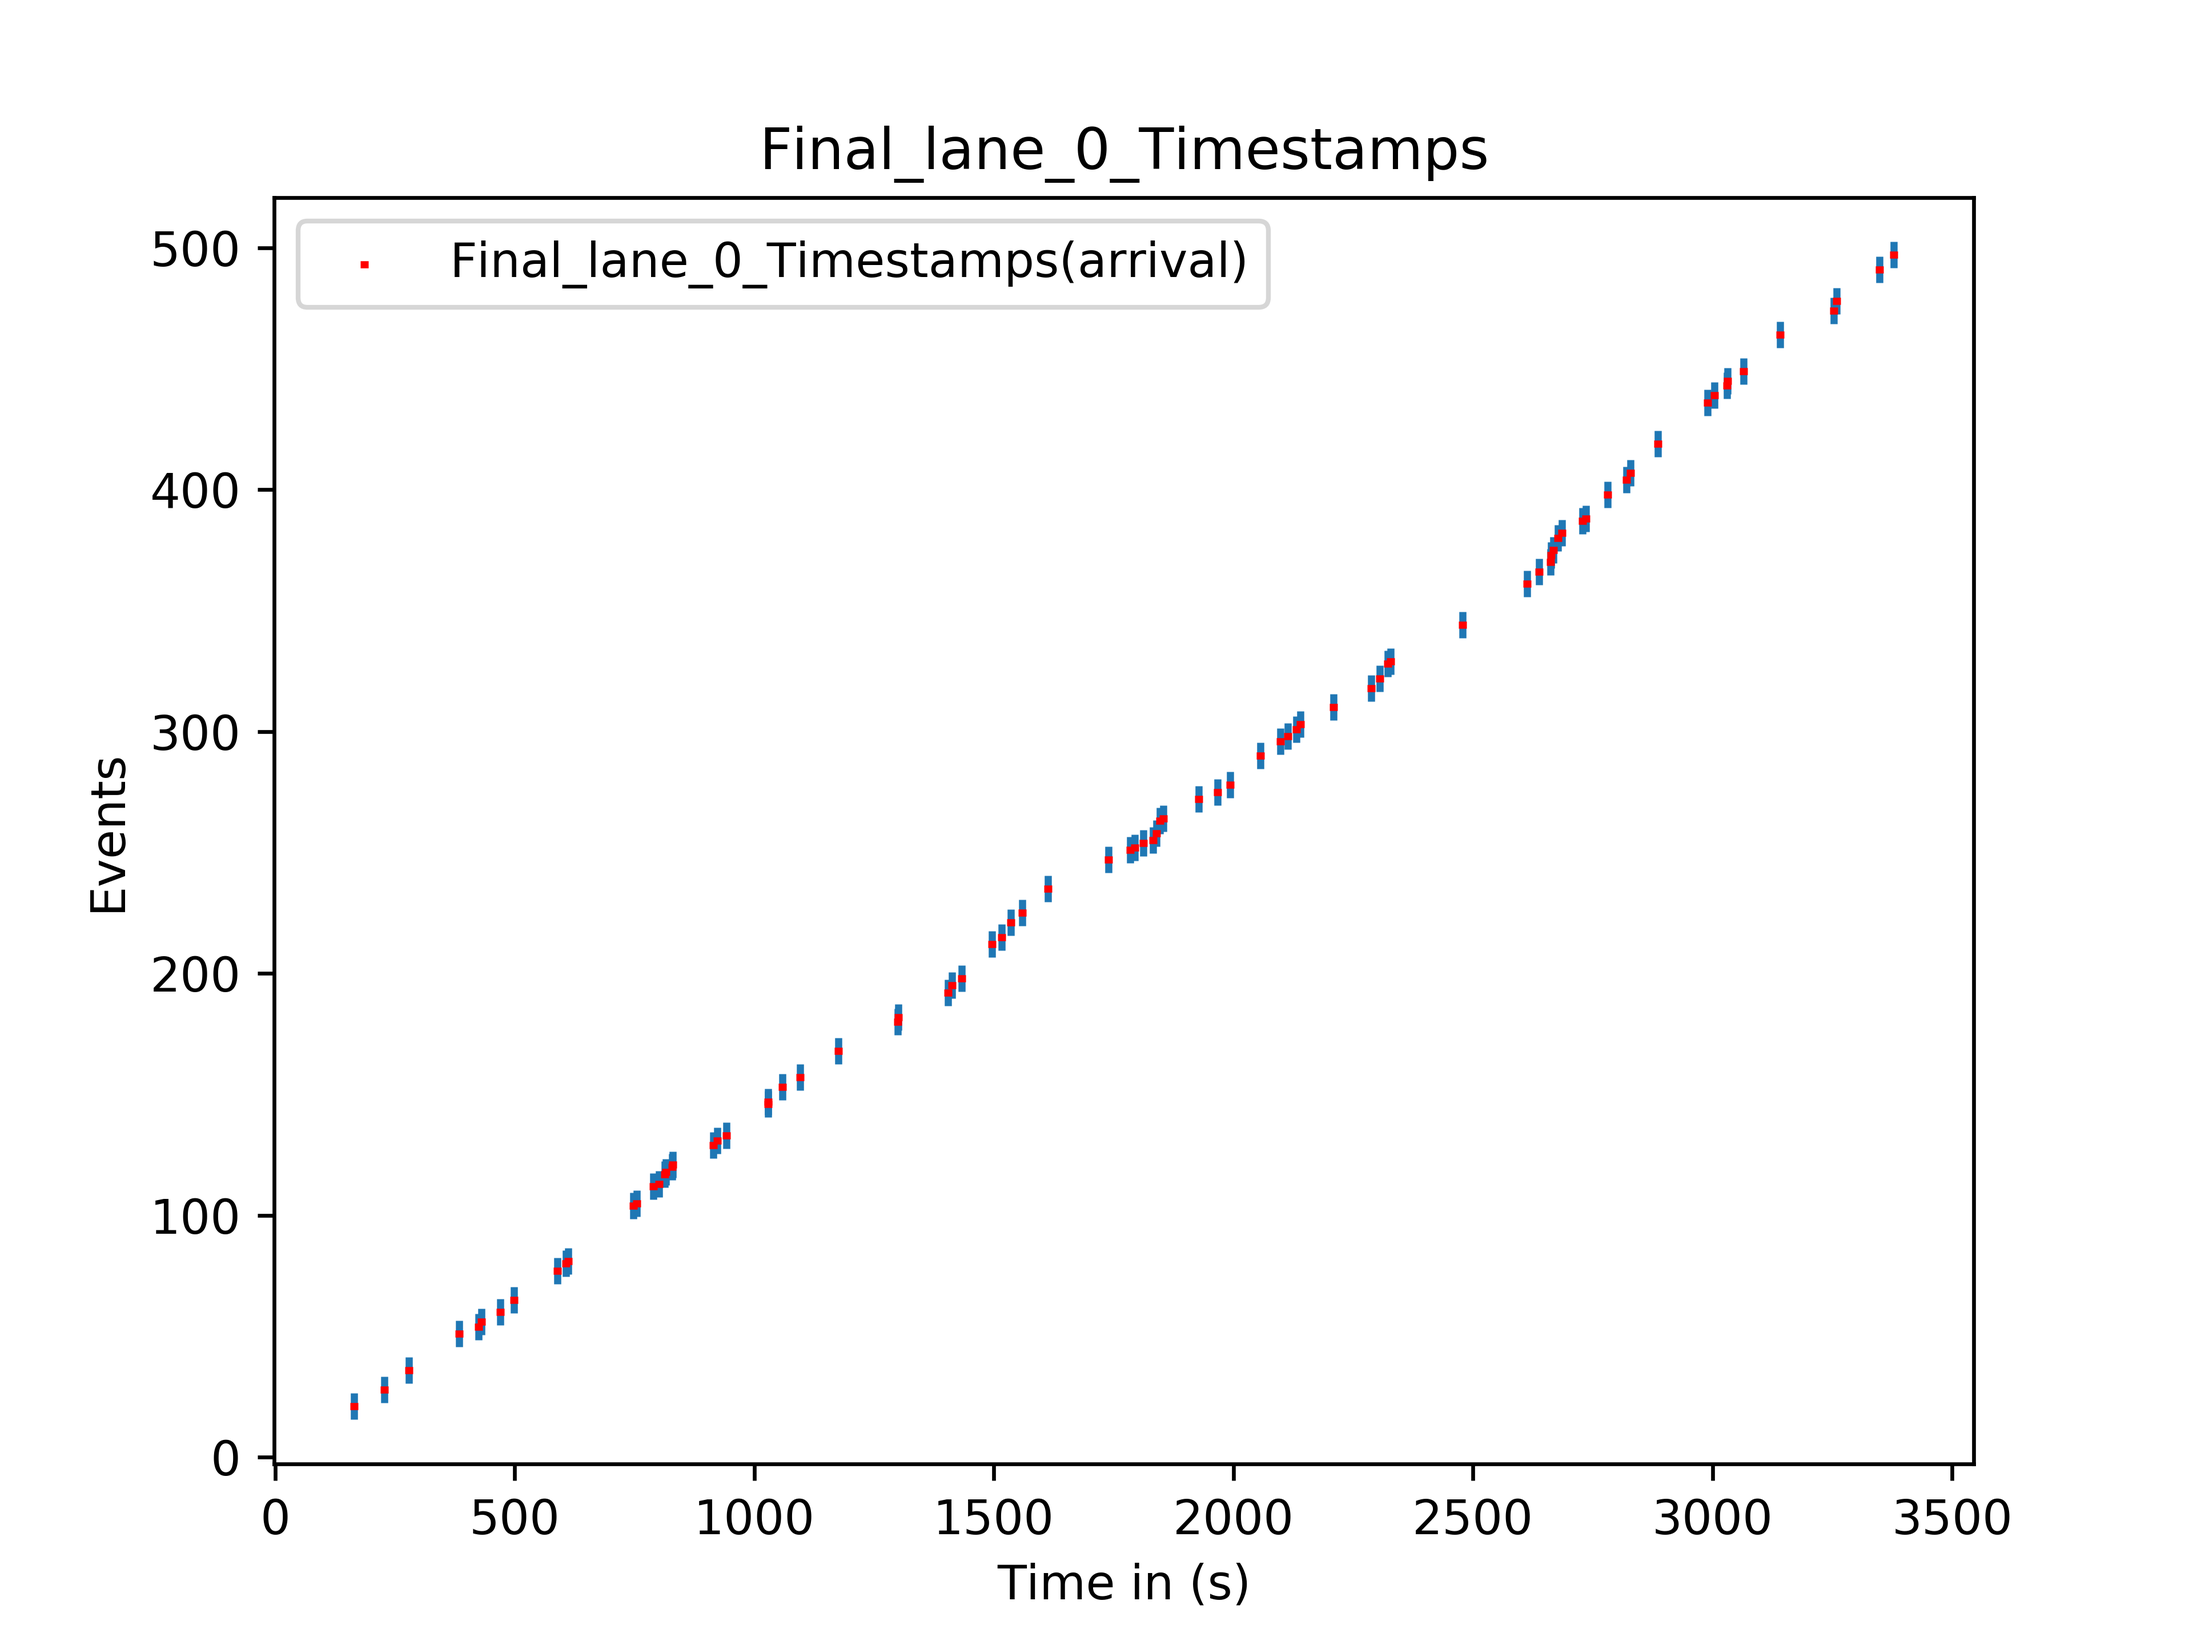
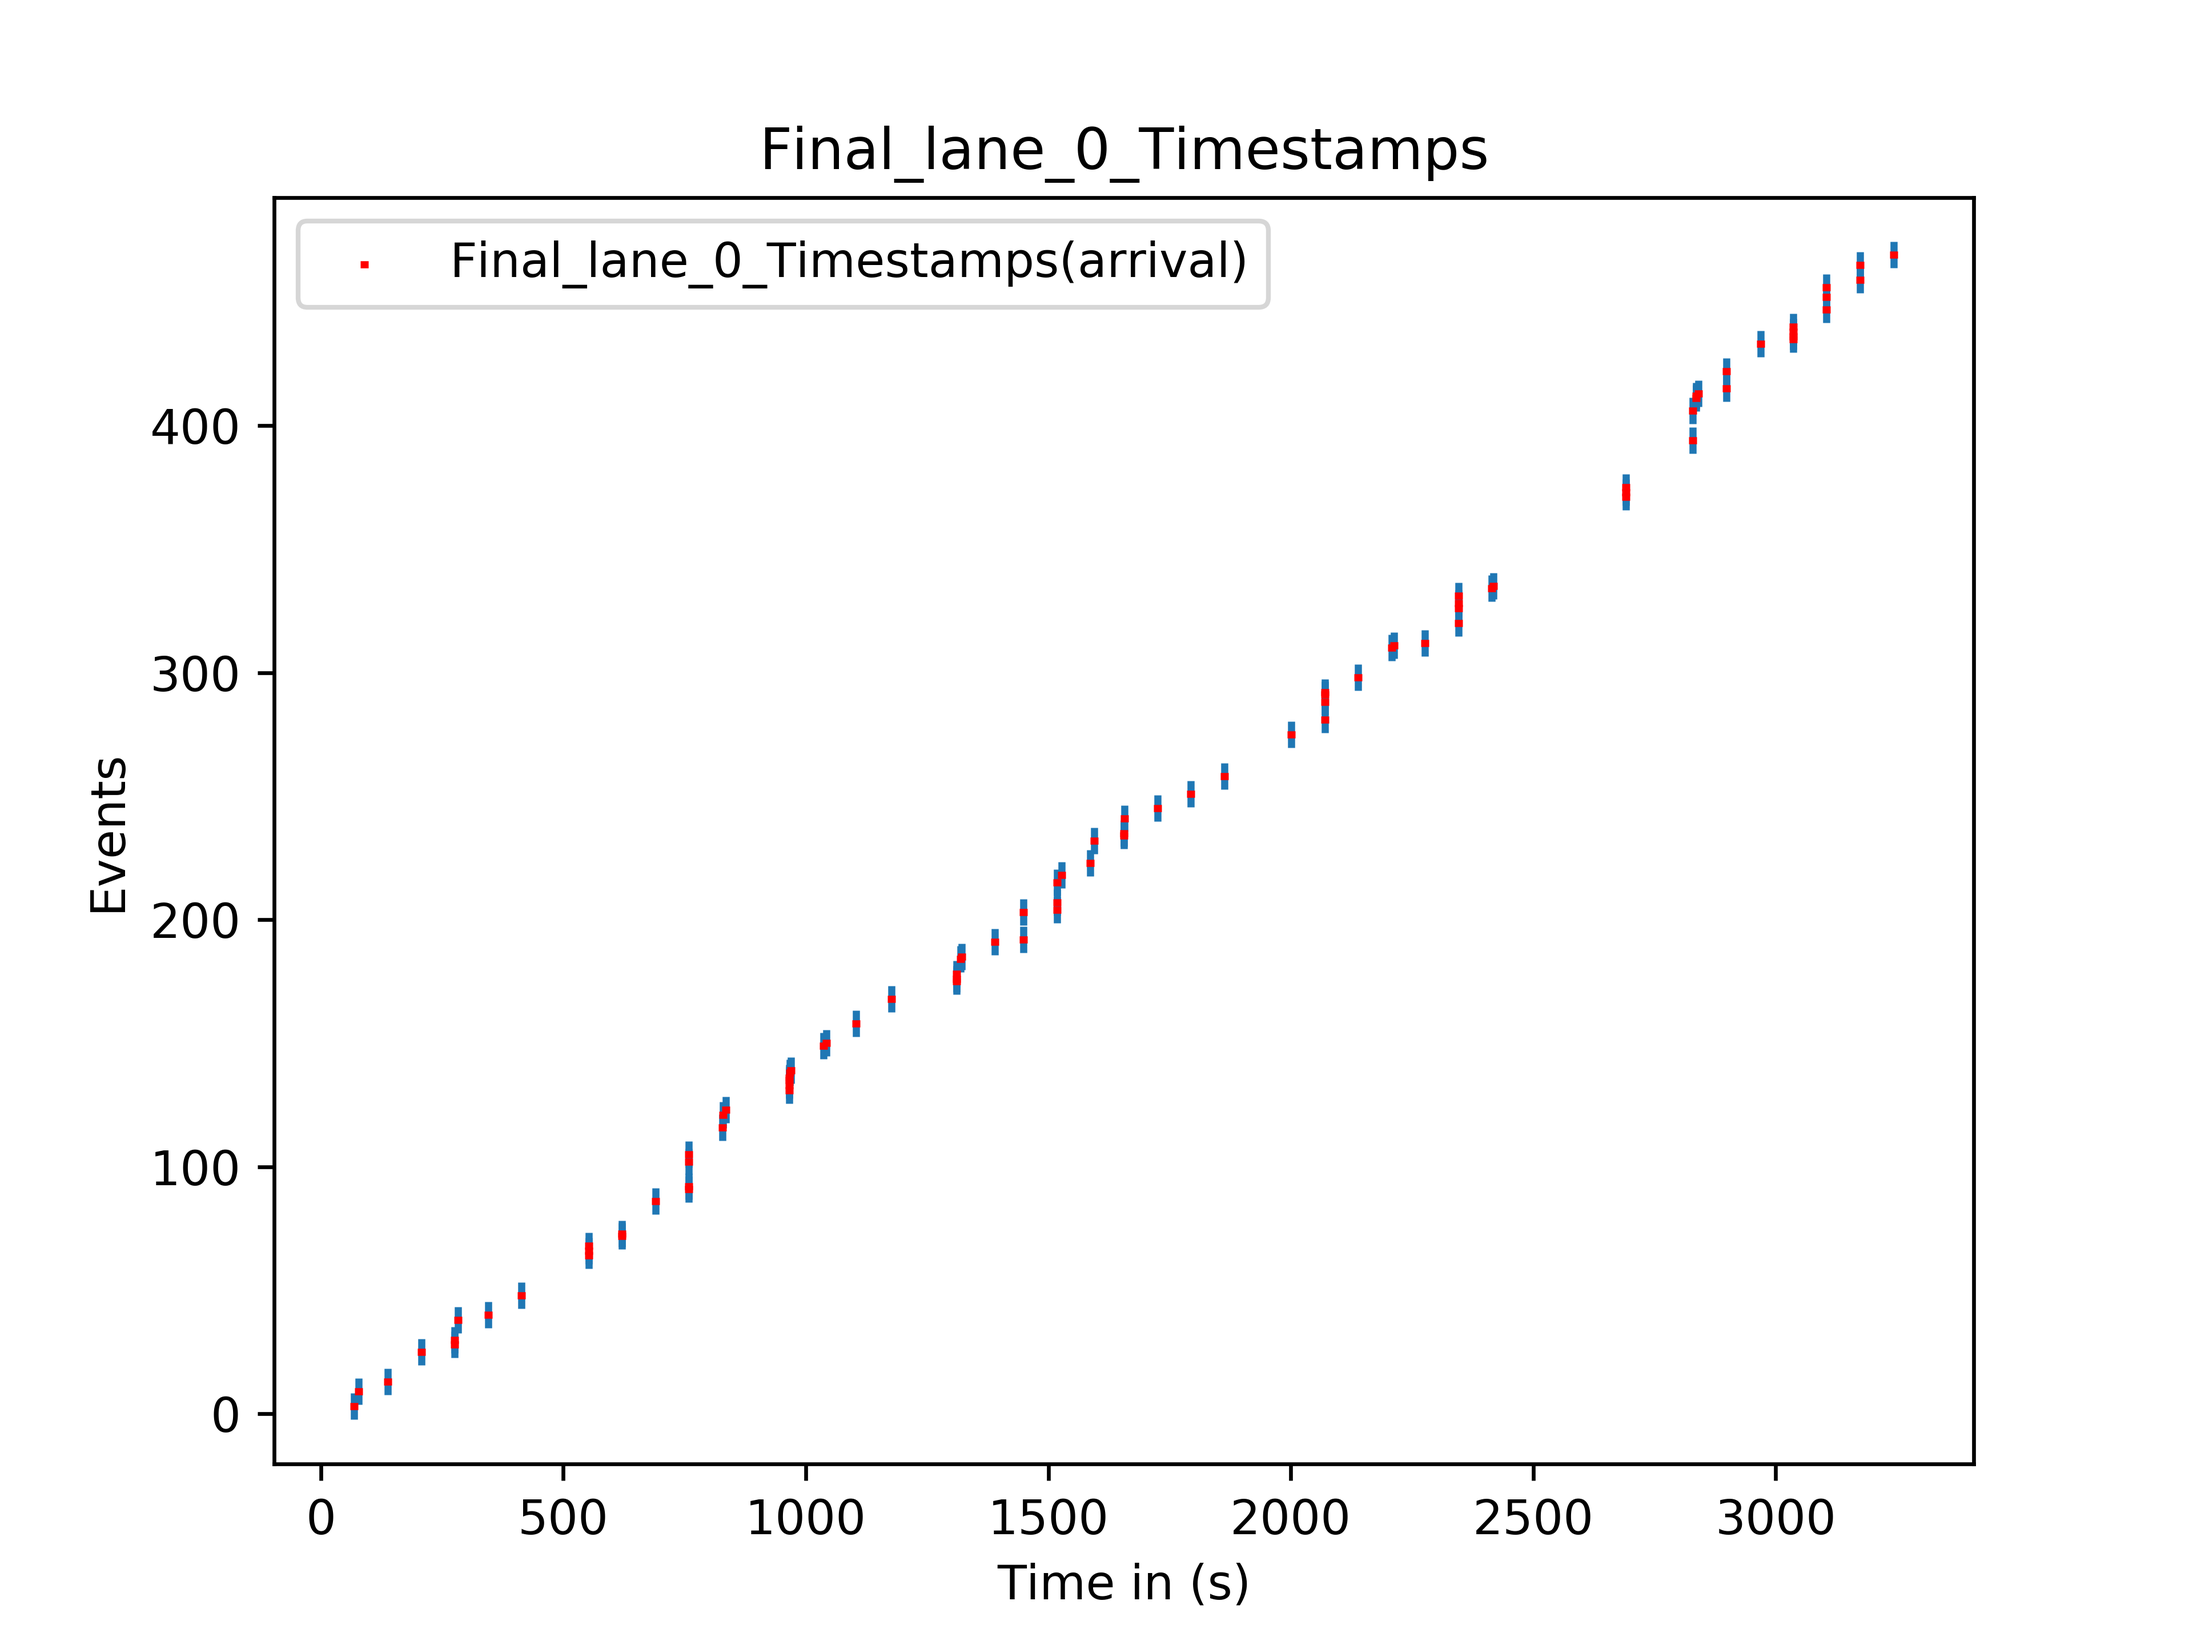
update figures

diff --git a/simulator.py b/simulator.py
@@ -70,16 +70,16 @@ def compare_timestamps_plot(time_stamps_1,id_list_1,time_stamps_2,id_list_2,name
     y = id_list_1
     x2 = time_stamps_2
     y2 = id_list_2
-    print(sum(time_stamps_1))
-    print(sum(time_stamps_2))
+    # print(sum(time_stamps_1))
+    # print(sum(time_stamps_2))
     fig, ax = plt.subplots()
     plt.title(name)
     plt.ylabel('Events')
     plt.xlabel('Time in (s)')
-    ax.scatter(x, y,marker="|",s=30)
-    ax.scatter(x, y,marker="_",color='r', label=name+'(arrival_inital)',s=3)
-    ax.scatter(x, y,marker="|",s=30)
-    ax.scatter(x, y,marker="_",color='g', label=name+'(arrival_final)',s=3)
+
+    ax.scatter(x, y,marker="|",color='r', label=name+'(arrival_inital)')
+
+    ax.scatter(x2, y2,marker="|",color='g', label=name+'(arrival_final)')
     ax.legend()
     plt.savefig(res_dir+name+'.png',dpi=600)
 
@@ -115,12 +115,29 @@ def main():
         lane_q = []
         lane_q_id = []
         for j in range(len(updated_global_q[i])):
-            lane_q.append(updated_global_q[i][j].arrival_time)
-            all_lane_q_final.append(updated_global_q[i][j].arrival_time)
+            lane_q.append(updated_global_q[i][j].arrival_time+updated_global_q[i][j].waiteTime)
+            all_lane_q_final.append(updated_global_q[i][j].arrival_time+updated_global_q[i][j].waiteTime)
             lane_q_id.append(updated_global_q[i][j].ID)
             all_lane_q_id_final.append(updated_global_q[i][j].ID)
         all_lane_q[i] = lane_q
         all_lane_q_id[i] = lane_q_id
+    
+    init_all_lane_q = {}
+    init_all_lane_q_final = []
+    init_all_lane_q_id = {}
+    init_all_lane_q_id_final = []
+    for i in range(len(global_q)):
+        lane_q = []
+        lane_q_id = []
+        for j in range(len(global_q[i])):
+            lane_q.append(global_q[i][j].arrival_time)
+            init_all_lane_q_final.append(global_q[i][j].arrival_time)
+            lane_q_id.append(global_q[i][j].ID)
+            init_all_lane_q_id_final.append(global_q[i][j].ID)
+        init_all_lane_q[i] = lane_q
+        init_all_lane_q_id[i] = lane_q_id
+
+    
 
     main_scene.pedestrain_generate()
 
@@ -134,6 +151,13 @@ def main():
     save_timestamps_plot(all_lane_q[5], all_lane_q_id[5],'Final_lane_5_Timestamps')
     save_timestamps_plot(all_lane_q_final,all_lane_q_id_final, 'Final_all_lanes_Timestamps')
     compare_timestamps_plot(initial_time_stamps, [i for i in range(len(initial_time_stamps))],all_lane_q_final,all_lane_q_id_final, 'Comparison_all_lanes_Timestamps')
+    compare_timestamps_plot(init_all_lane_q[0],init_all_lane_q_id[0],all_lane_q[0],all_lane_q_id[0], 'Comparison_lane_0_Timestamps')
+    compare_timestamps_plot(init_all_lane_q[1],init_all_lane_q_id[1],all_lane_q[1],all_lane_q_id[1], 'Comparison_lane_1_Timestamps')
+    compare_timestamps_plot(init_all_lane_q[2],init_all_lane_q_id[2],all_lane_q[2],all_lane_q_id[2], 'Comparison_lane_2_Timestamps')
+    compare_timestamps_plot(init_all_lane_q[3],init_all_lane_q_id[3],all_lane_q[3],all_lane_q_id[3], 'Comparison_lane_3_Timestamps')
+    compare_timestamps_plot(init_all_lane_q[4],init_all_lane_q_id[4],all_lane_q[4],all_lane_q_id[4], 'Comparison_lane_4_Timestamps')
+    compare_timestamps_plot(init_all_lane_q[5],init_all_lane_q_id[5],all_lane_q[5],all_lane_q_id[5], 'Comparison_lane_5_Timestamps')
+
     return
 
 if __name__ == "__main__":
